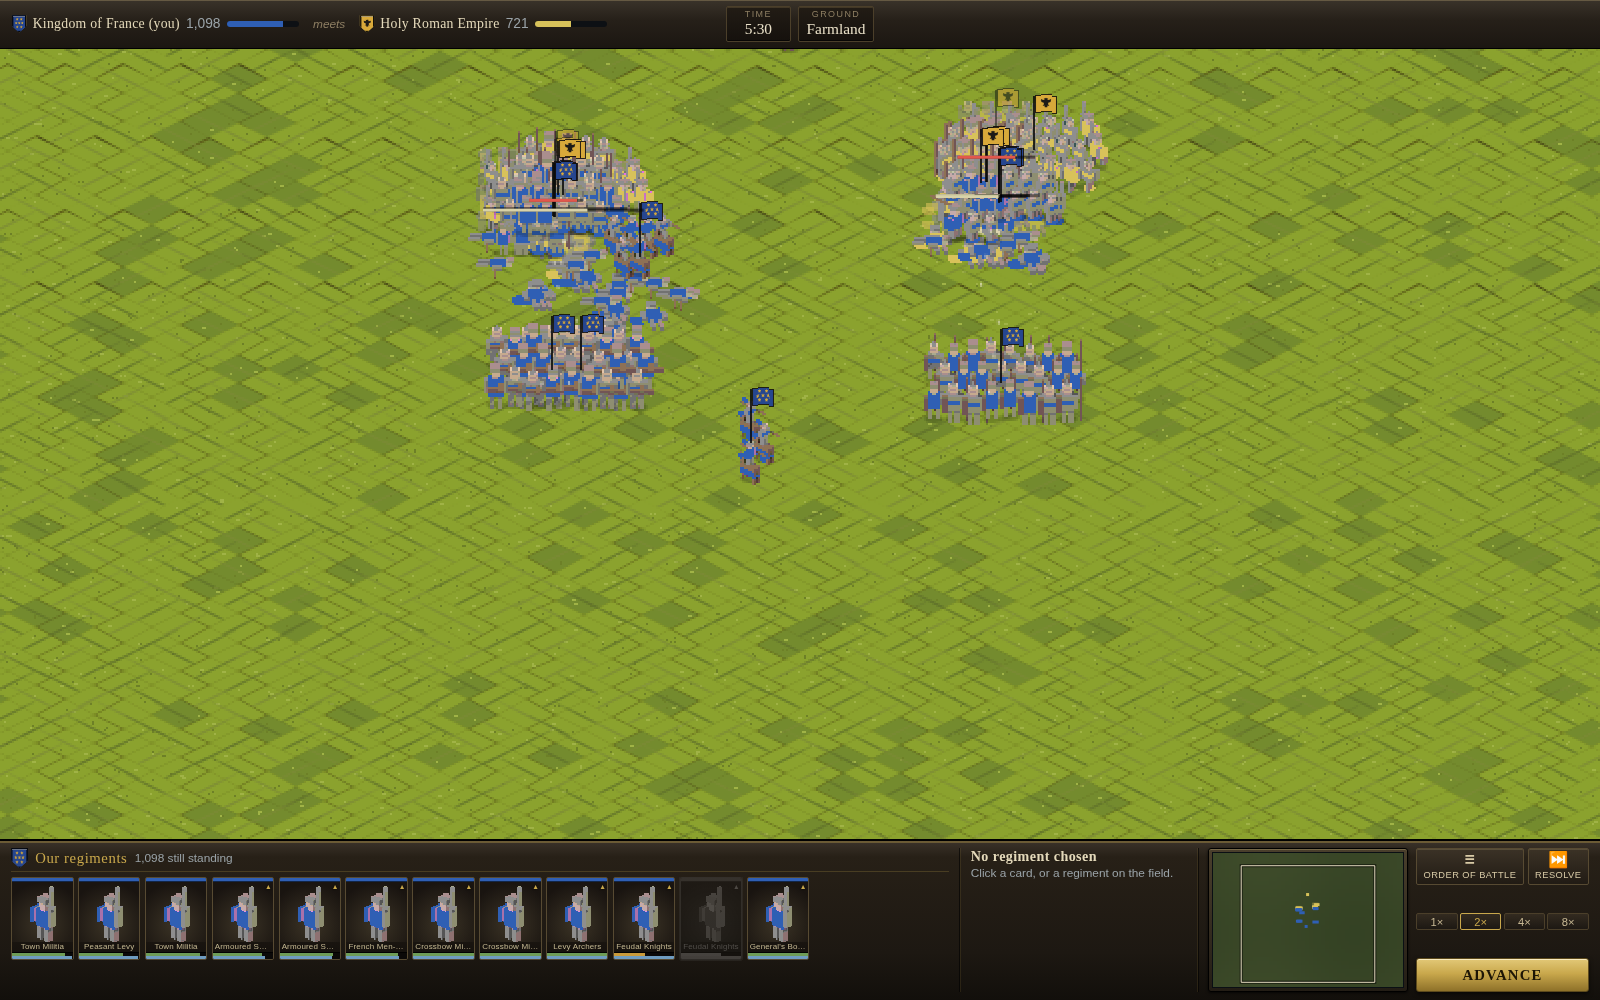
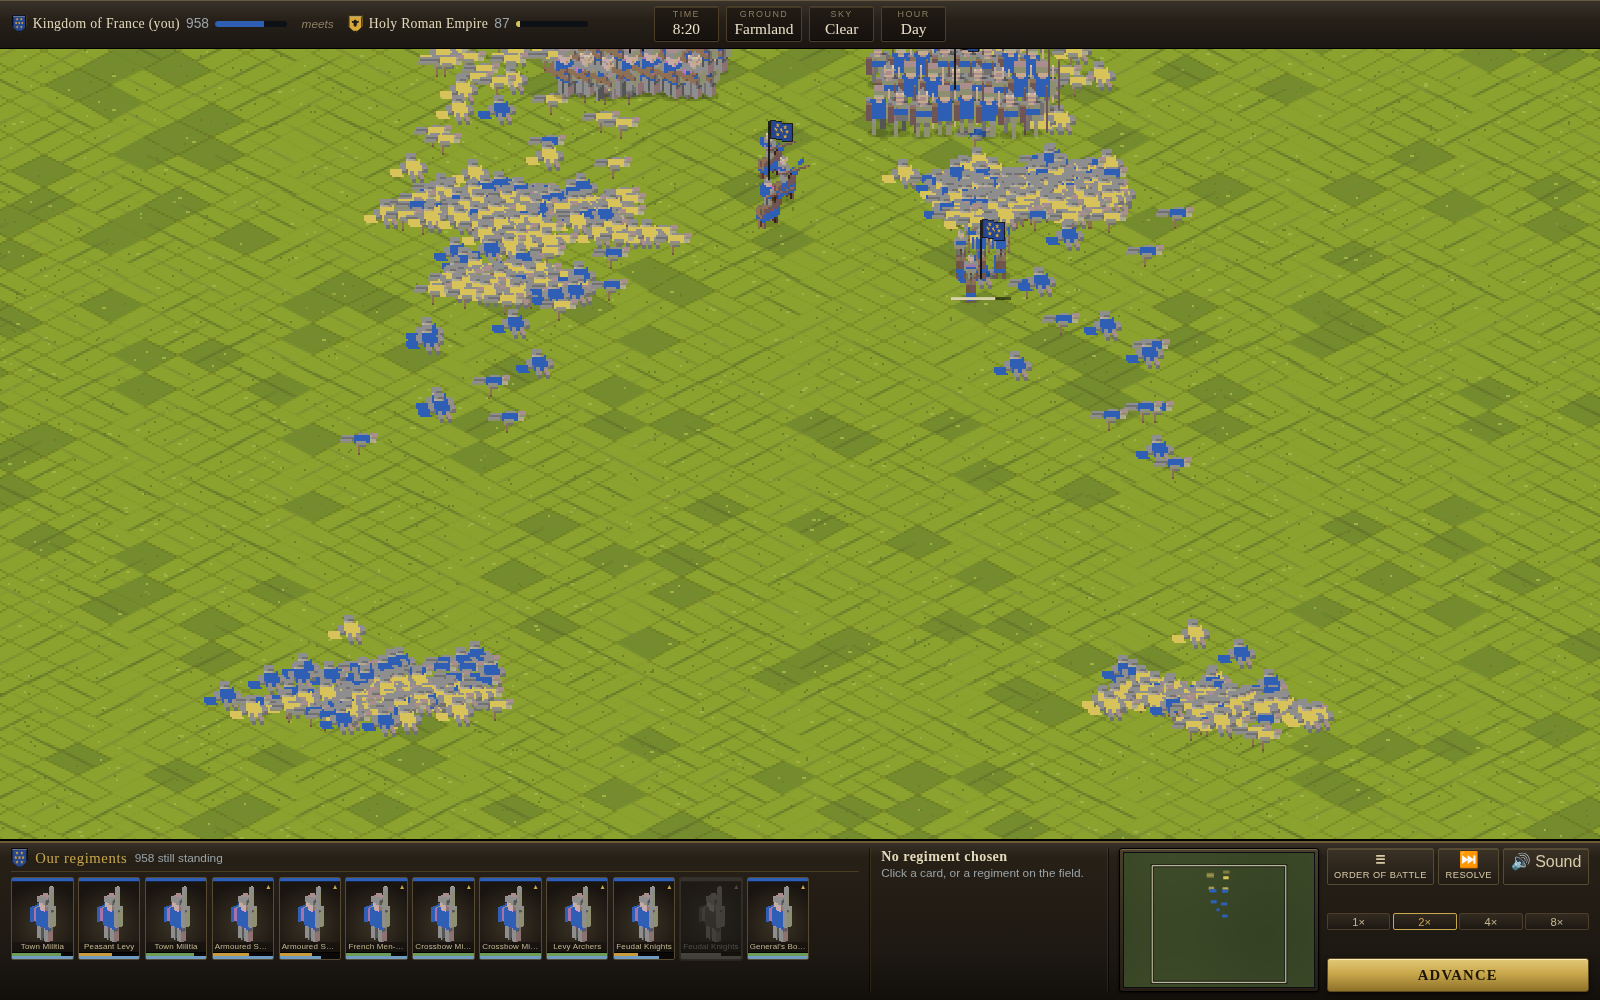
Everything the day added, written down
The README, the design notes and the screenshots, for the sky over a
battle, the men it leaves on the ground, the engines that are no longer
swordsmen, the sound that is made rather than recorded, and the diagnostic
that plays two centuries and counts.

Two new sections in the design notes — one on the weather and the hour, with
the table of what each sky is worth, and one on sound — plus the drawing
notes for the wash, the falling frames and the siege train, and a note on
looking for what tests cannot see. Three things move to the list of what is
deliberately simple: the weather holds for the day rather than changing
during a battle, a battery's cadence is drawn rather than simulated, and the
battle AI is still a doctrine.

New screenshots of snow at dusk with the light running out, of fog with the
line barely showing through it, and of a siege train drawn up behind a
storming army. The battle shot is retaken, because the dead in it are in
different places now.

diff --git a/docs/design.md b/docs/design.md
@@ -84,9 +84,63 @@ order: orders and movement, missile fire, melee, morale, victory check.
   each taking the ground its own numbers need; the wings form on the flanks of
   the centre rather than off on their own. A gap in a line of battle is an
   invitation, so the simulation does not leave any.
+- **Weather and the hour** cap how far anyone can see, slacken bowstrings, wet
+  powder, mire the ground, tire the men and shorten their tempers, and take
+  the day away from a battle begun too late. See below.
 
 Both presentations run the same model. A battle the player watches and a battle
 the campaign resolves for them differ only in whether it is drawn.
+
+## Weather, and the hour
+
+A medieval battle was not fought on a flat green field at noon. It was fought
+in whatever the morning gave, and the two things that decided more fights than
+any general's plan were the ground underfoot and whether the men could see.
+Crecy was fought after a thunderstorm that had soaked the Genoese crossbowmen's
+strings; Agincourt across a ploughed field turned to mud; Barnet in a fog thick
+enough that one Lancastrian wing shot into another and the cry of treason broke
+the army; Towton in driving snow, into the faces of one side and the backs of
+the other.
+
+Six skies — clear, overcast, rain, storm, snow, fog — and four hours: dawn,
+day, dusk, night. Both are **rolled once from the battle's own seed** before
+anything moves, so a replayed campaign fights the same battle under the same
+sky, and neither is stored on the campaign state. Season, ground and what kind
+of fight it is all weight the draw: no snow in a summer campaign or in the
+desert, fog thick on marsh and coast and in forest, storms and snow in the
+mountains, no fleet action at night, and night four times likelier in an
+escalade, because going over a wall in the dark is most of what a storming
+party had going for it.
+
+What they are worth is one table in `core/battle/weather.ts`, reduced to seven
+numbers the simulation reads through `BattleState.conditions`:
+
+| | |
+| :--- | :--- |
+| `visibility` | metres. Caps missile range and target selection, for both sides and for the picture |
+| `aim` | missile accuracy: wind, wet strings, poor light |
+| `powder` | firearms only — rain does not hinder a gun, it stops it |
+| `footing` | movement, and cavalry suffers a half again more than foot |
+| `toil` | how fast men tire; the desert sun counts here too |
+| `morale` | added to every threshold on the field |
+| `light` | seconds of day the battle begins with |
+
+Three of these are worth the detail. **Powder is separate from aim** because
+the two failures are not the same failure: a wet bowstring loses its cast and a
+wet gun does not go off, which is what happened to the Genoese at Crecy and to
+every gun caught in the open by rain for three centuries after. **Fog closes a
+field down to about a hundred metres**, which is short of a longbow's reach —
+so what fog takes is not the killing but the long attrition before it, and an
+army in fog is on top of you before anyone has shot at it. And **the light runs
+out**: a battle begun at dusk has about eleven minutes of fighting in it, after
+which the day is over, the defender keeps the ground he is standing on, and the
+attacker needs a clear win rather than a narrow one to have taken it.
+
+The battle AI is under the same limits as the player. It cannot shoot what it
+cannot see, and in fog or in the dark its cavalry stops picking the exposed
+flank out of a line and charges whatever is nearest, which is how cavalry was
+wasted on nights like Barnet. As on the campaign map, the weather **takes sight
+away from the player rather than giving it to the machine**.
 
 ## The AI
 
@@ -356,6 +410,24 @@ vow, which relieves a quarter of their soldiers' upkeep and declares war on
 whoever holds the place. Taking it pays the taker in standing and plunder;
 letting the call lapse costs everyone who swore and did nothing.
 
+## Looking for what tests cannot see
+
+The four worst faults this project has had were not found by reading the code
+and were not found by a test: a province with a hundred and sixty-two million
+people in it, an AI that never formed a field army and so fought two battles in
+a century, sieges that were started and wandered away from, and everybody
+allied with everybody because nothing capped goodwill. Each of them is *true*
+at every single step and absurd after two hundred of them, which is exactly the
+class of fault a unit test cannot hold.
+
+`npm run diagnose` is the standing version of that. It plays two centuries with
+nobody at the wheel, writes down the map, the realms, what is under arms and
+every battle fought — including what it was fought under, at what hour and how
+it ended — and then flags the numbers that cannot be right. It does not assert
+and it is not part of the build, because a diagnostic that fails the build is a
+diagnostic people stop running. `watchBattles` in `campaign/resolve.ts` exists
+for it and for nothing else: it observes a finished result and cannot write.
+
 ## How a campaign ends
 
 Three ways, and the third is the one that was missing. A realm wins by
@@ -551,13 +623,30 @@ soldier — spear, pike, sword, bow, crossbow, handgun, lance, light horse —
 built from the same dozen boxes with a different thing in the hand, and the
 thing in the hand is the whole of what tells one from another in a
 silhouette this size. Over each regiment stands its realm's banner in its own
-arms, which is what a medieval battlefield was actually read by, and behind it
-lie its dead: a body a man, as many as it has lost, on his back with his
-shield where it fell. The simulation does not keep a body's position and does
-not need to — what the eye reads off a field is how much of it has been
-fought over, and that is the count. They are pinned to the regiment's
-position rounded to the nearest few metres, so a unit shuffling about does
-not drag its own dead along behind it a pixel at a time.
+arms, which is what a medieval battlefield was actually read by. A siege train
+is not men but machines: one engine to a dozen crew, and two silhouettes for
+the five kinds, because a ballista, a catapult and a trebuchet are all a frame
+with an arm on it while a bombard and a culverin are a barrel on a bed. Each
+sprite carries its own gunners. Until the sheet had either of them, every
+engine on the field was drawn as a swordsman.
+
+**The dead are where they died.** They used to be a scatter pinned to the
+regiment that had lost them, which meant a regiment dragged its own dead across
+the field behind it and took them away when it marched off. Now the simulation
+records each man as it kills him — where, which way he was facing, and when —
+and he stays there for the rest of the day, because the ground a fight was had
+on does not move when the survivors march off it. A man takes a second to go
+down: two frames of falling, pitched the way he was facing and sized down from
+a standing man to a body, so dying is the one thing on this field that is not a
+cut between two pictures. He has dropped his shield and his weapon on the way,
+which is why there is one falling figure rather than one per kind of soldier —
+and why a knight comes off his horse.
+
+The record is kept **only when somebody is watching**. A campaign turn that
+resolves nine sieges has no use for forty thousand bodies, so `createBattle`
+takes a `record` flag and the auto-resolve leaves it off. It cannot change an
+outcome: where a body lands is a hash of a counter, never a draw from the
+battle's own generator, which is the whole reason the switch is safe.
 
 **A regiment is the men in it.** Ranks and files from the unit's own formation,
 as many figures as the block has room for, thinning from the back as it takes
@@ -571,6 +660,17 @@ to eleven pixels the metre, so every man in a line is a man. Arrows are drawn on
 where the simulation would have that unit shooting this tick, and dust only
 where units are actually in contact: the picture does not say anything the
 model is not doing.
+
+**The sky is the model, lit.** The wash over the field is the weather the
+simulation is reading: a multiply for the hour — cold and low at dawn, warm and
+dark at dusk, blue at night, because the eye stops reading colour before it
+stops reading shape — and another for the cloud, with a haze on top that is
+thicker towards the top of the screen, which is the far end of the field. Rain
+and snow are drawn from a hash of the drop's own number and the battle clock,
+so nothing is stored and a paused battle holds the rain where it is. Lightning
+is a function of the same clock, so the flash and the crack agree about how
+many strokes there were. Enemy regiments fade out past what the conditions
+allow anyone to see; your own never do, because you know where you put them.
 
 **The battle has its own camera.** A field 1400 m across and a man a metre
 wide do not share a scale. Untouched, the camera frames the two armies; the
@@ -618,6 +718,32 @@ their first frame and draw whatever they have, which for the first frame is
 nothing. A screen that redraws constantly never notices; a battle sitting
 paused before its first tick showed an empty field until the player happened to
 move the mouse.
+
+## Sound
+
+Made, not recorded. There is no audio file in the repository, for the same
+reason there is no hand-drawn sprite and no image of a coat of arms: nothing
+here should be a binary somebody produced once that nobody can change. A volley
+of arrows is filtered noise with a sweep on it, steel on a shield is a noise
+burst and a ring, a horn is three detuned saws through a low-pass, thunder is
+the same noise with the top taken off and a long tail, and the bell at the end
+of a turn is three sine partials at a bell's own ratios. The whole of it is a
+few hundred lines of Web Audio and weighs nothing.
+
+It follows the renderer's rule. A volley is heard only where `isShooting` says
+a regiment is shooting — the same predicate the arrows are drawn from, moved
+into the simulation so the picture and the sound cannot hold different opinions
+about when a bow is drawn. The ring of steel runs at a rate set by the men
+actually in contact this tick. Horns sound for the two things a man in the line
+could be told — something has gone in, something has broken — and are throttled
+hard, because what makes a horn mean anything is that it is not sounding most
+of the time. A paused battle is silent, because a paused battle is a still
+picture.
+
+Nothing in `audio/` can reach the model: it reads state and writes none, and a
+battle fought with the speakers off is the same battle. The context is created
+on the player's first click, because browsers will not allow otherwise and
+because a page opened and left alone should be quiet.
 
 ## What a realm can see
 
@@ -683,5 +809,12 @@ succeeds would be a poor teacher.
   was there last year.
 - **Battle AI is a doctrine, not a search.** Hold a line with the heavy foot,
   shoot with everything, use cavalry against whatever is exposed.
+- **The weather does not change during a battle.** It is rolled once and holds
+  for the day. Rain that starts halfway through would be a better model and a
+  worse thing to plan around.
+- **A battery's cadence is drawn, not simulated.** The model fires missiles at
+  a steady rate rather than in discrete shots, so the moment an engine is shown
+  loosing is a cadence of the renderer's own. It is the one place the picture
+  invents a beat, and it only does so while the regiment is in fact shooting.
 
 Each of these is a place the game could grow, not a thing that is broken.

diff --git a/README.md b/README.md
@@ -152,8 +152,27 @@ fight at sea.
   throws away — which is the one thing that reads as a rout rather than as a
   march in the wrong direction.
 
-  Behind the fighting the dead lie where the regiment has been — a body a man,
-  on his back with his shield where it fell, in his lord's colours still.
+  And when a man is hit he goes down over a second rather than blinking out of
+  standing and into lying on his back: two frames of falling, pitched the way he
+  was facing, sized down from a standing man to a body. He has dropped his
+  shield and his weapon on the way, which is why there is one falling figure
+  rather than one for every kind of soldier — and why a knight comes off his
+  horse. Then he stays exactly where he fell, for the rest of the day. The dead
+  used to be a scatter pinned to the regiment that had lost them, so a regiment
+  dragged its own dead across the field behind it and took them away when it
+  marched off; now the simulation writes down each man as it kills him and the
+  ground a fight was had on keeps them.
+
+  A siege train is machines rather than ranks. Two silhouettes cover the five
+  kinds — a frame with a throwing arm for the ballista, the catapult and the
+  trebuchet, a barrel on a timber bed for the bombard and the culverin — one
+  engine to a dozen crew, each with its own gunners in the sprite, and a muzzle
+  flash on the gun that has just gone off. Until the sheet had either of them,
+  every engine on the field was drawn as a swordsman.
+
+  <div align="center">
+  <img src="docs/screenshots/engines.png" alt="An Imperial siege train drawn up behind the line: two trebuchets and two bombards with their crews" width="860" />
+  </div>
 
   And no two men beside each other are the same man. Every kind is rendered in
   two kits — a surcoat of his lord's colours over a kite shield under a flat
@@ -178,6 +197,46 @@ fight at sea.
   | Missiles | fall off with range, blunted by armour, and run out — nobody resupplies in the field |
   | Morale | shock from casualties, from being shot at, from a flank attack, and from watching the regiment beside you break |
   | Ground | hills and mountains fight on a ridge, and holding the crest is worth real advantage |
+  | The sky | what is falling, and what hour it is — below |
+
+- **Fought in whatever the morning gave.** Six skies — clear, overcast, rain,
+  storm, snow, fog — and four hours, rolled once from the battle's own seed so a
+  replayed campaign fights the same battle under the same sky. None of it is a
+  filter over the picture: every number the weather sets is read by the
+  simulation, and the fog that thins the field is the fog that stopped the
+  archers shooting.
+
+  | | |
+  | :--- | :--- |
+  | Sight | caps missile range and target selection. Fog closes a field to about a hundred metres, short of a longbow's reach, so an army in it is on top of you before anyone has shot |
+  | Bowstrings | a wet string loses its cast, and poor light costs the aiming |
+  | Powder | rain does not hinder a gun, it stops it — which is what happened to the Genoese at Crecy, and to every gun caught in the open for three centuries after |
+  | Footing | mud and snow, and cavalry suffers half again more than foot does |
+  | Toil | men tire faster in snow, in storm, and under a desert sun |
+  | Nerve | standing in the dark in the rain waiting to be charged by something you cannot see is its own argument for going home |
+  | The light | a battle begun at dusk has about eleven minutes of day left. After that the defender keeps the ground he is standing on, and the attacker needed a clear win rather than a narrow one |
+
+  <div align="center">
+  <img src="docs/screenshots/weather.png" alt="Snow falling on a field at dusk, with six minutes of light left" width="430" /> <img src="docs/screenshots/fog.png" alt="Fog, with the enemy line barely showing through it" width="430" />
+  </div>
+
+  The battle AI is under the same limits. It cannot shoot what it cannot see,
+  and in fog its cavalry stops picking the exposed flank out of a line and
+  charges whatever is nearest — which is how cavalry was wasted on nights like
+  Barnet. Snow stays out of a summer campaign and out of the desert, fog
+  thickens on marsh and coast, fleets do not fight in the dark, and a night
+  attack is four times likelier against a wall, because the dark is most of
+  what a storming party had going for it.
+
+- **Sound, made rather than recorded.** There is no audio file in this
+  repository. A volley of arrows is filtered noise with a sweep on it, steel on
+  a shield is a noise burst and a ring, a horn is three detuned saws through a
+  low-pass, thunder is the same noise with the top taken off, and the bell at
+  the end of a turn is three sine partials at a bell's own ratios. It follows
+  the same rule the picture does: a volley is heard only where the simulation
+  has a regiment shooting, the ring of steel runs at a rate set by the men
+  actually in contact this tick, and a paused battle is silent — because a
+  paused battle is a still picture.
 
 - **Trade is a wager, not an allowance.** A trade road is an ordered path of
   real provinces. Sending a caravan costs money now and pays more on arrival,
@@ -404,8 +463,9 @@ Both are offered again on the faction select screen.
 | `src/core/battle/` | Deployment, the fixed-timestep simulation, the battle AI and the ground. |
 | `src/render/` | The Mercator projection and camera, the province geometry, and the isometric renderer: `iso/` holds the view transform, the elevation, the land mask, the palette and the sprite sheet; `map.ts` and `battle.ts` draw with them. |
 | `src/ui/` | Screens, panels, persistence. Plain DOM, no framework. |
-| `tools/` | `build-geography.py` for the coastline, `build-elevation.py` for the ground, and `build-sprites.py`, which drives Blender to model and render every sprite on the map. |
-| `tests/` | 415 tests, including three-hundred-turn runs that assert the simulation never breaks its own rules. |
+| `tools/` | `build-geography.py` for the coastline, `build-elevation.py` for the ground, `build-sprites.py`, which drives Blender to model and render every sprite on the map, and `diagnose.ts`, which plays two centuries with nobody at the wheel and flags the numbers that cannot be right. |
+| `src/audio/` | The synthesiser. Web Audio, no files: everything the game makes a noise with is built from noise and oscillators. |
+| `tests/` | Tests, including three-hundred-turn runs that assert the simulation never breaks its own rules. |
 
 Nothing in `src/core/` touches the DOM, calls `Math.random`, or knows the map
 is drawn at all — which is why both renderers could be replaced without a
@@ -432,7 +492,16 @@ army or standing on a town wall.
 npm test             # vitest
 npm run typecheck    # tsc --noEmit, strict
 npm run build        # typecheck, then bundle
+npm run diagnose     # two hundred turns, and what came out of them
 ```
+
+`npm run diagnose` is not a test and does not assert. It plays the campaign
+through, counts the map, the realms, what is under arms and every battle fought
+— including the sky, the hour and how it ended — and then flags anything that
+cannot be right: a province of a hundred million people, a century with two
+battles in it, an alliance between everybody. Those were real faults, and every
+one of them was invisible to a unit test, because each is true at any single
+step and absurd after two hundred.
 
 URL parameters open a known state without a sequence of clicks:
 
@@ -444,6 +513,9 @@ URL parameters open a known state without a sequence of clicks:
 ?faction=venice&agents=spy,priest        a campaign with a few men already in service
 ?demo=siege&at=240                       an assault on a walled town
 ?demo=sea&play=1                         a sea fight, running
+?demo=battle&weather=snow&hour=dusk      the same battle, in snow, with the light going
+?demo=battle&weather=fog&at=360          fog, and an enemy you cannot see until he is on you
+?demo=siege&blook=760,860&bzoom=7        the siege train at the back of a storming army
 ?demo=end&faction=croatia                the closing reckoning
 ```
 
@@ -455,8 +527,11 @@ URL parameters open a known state without a sequence of clicks:
 - [x] An opening guide, because the interface is dense and used to say nothing
 - [x] Civil war: a disputed succession that produces a rival claimant with an army
 - [x] Fog of war, which gives a spy something to sell besides sabotage
-- [ ] Battles fought in winter, in rain, and at night
-- [ ] Sprites for the rest of it: siege engines, baggage, ports and bridges
+- [x] Battles fought in winter, in rain, in fog and at night
+- [x] Sound, synthesised rather than sampled
+- [x] Siege engines that are drawn as siege engines
+- [ ] Sprites for the rest of it: baggage, ports and bridges
+- [ ] Weather that changes during a battle rather than holding for the day
 
 ## Not a reimplementation
 
